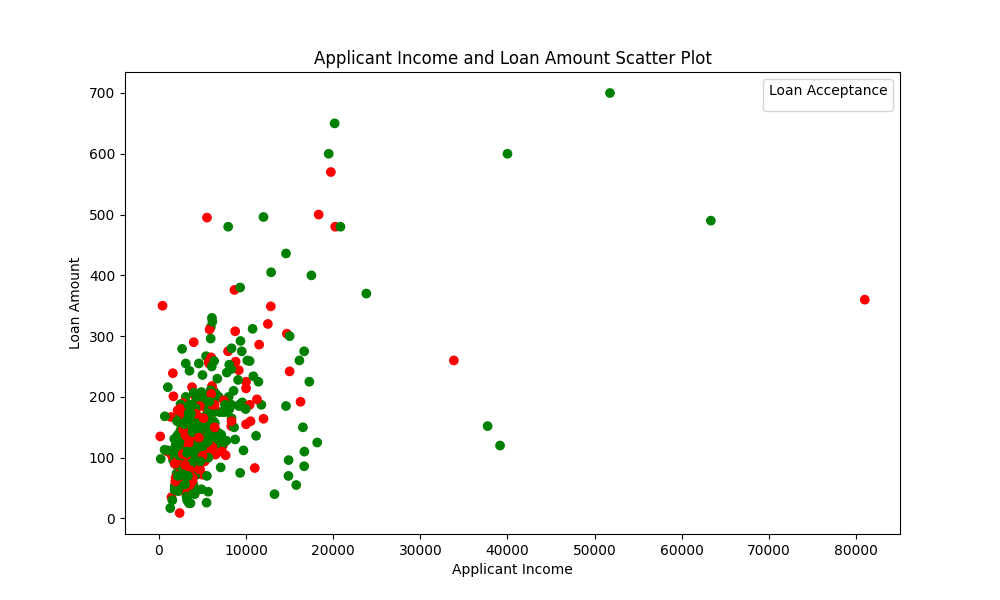
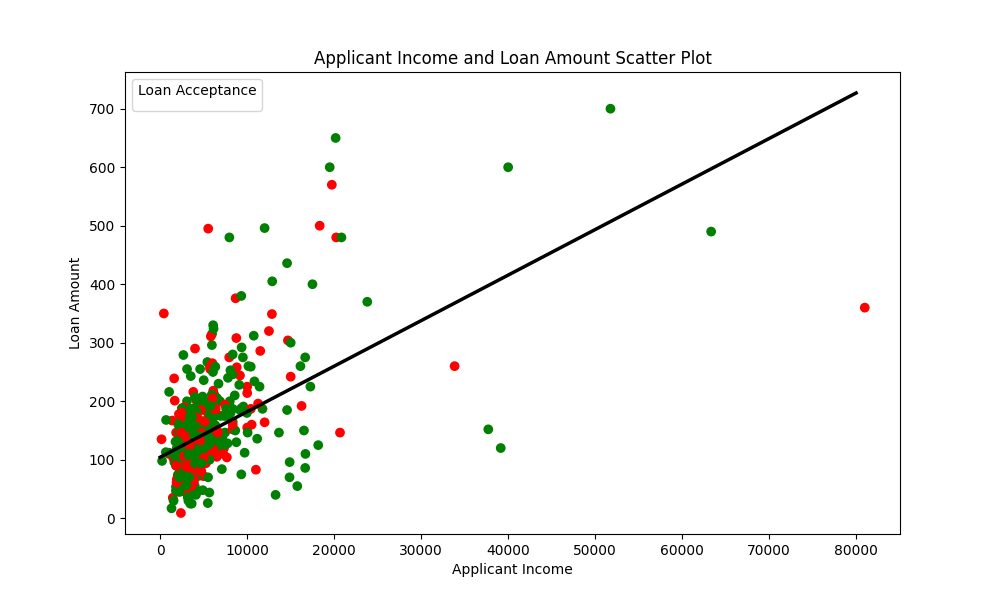
Added regression line to Applicant Income and Loan Amount Scatter Plot

diff --git a/antonLending/main.py b/antonLending/main.py
@@ -106,7 +106,11 @@ if __name__ == '__main__':
            xlabel="Applicant Income",
            ylabel="Loan Amount")
     ax.legend(*scatter.legend_elements(), title="Loan Acceptance")
+    b, a = np.polyfit(loan_applications["ApplicantIncome"], y=loan_applications["LoanAmount"], deg=1)
+    xseq = np.linspace(0, 80000, num=100)
+    ax.plot(xseq, a + b * xseq, color="k", lw=2.5);
     fig.savefig("Scatter-LoanAmount-LoanStatus.png")
+
 
     fig, ax = plt.subplots(figsize=(10, 6))
     scatter = ax.scatter(x=loan_applications["Loan_Amount_Term"],
